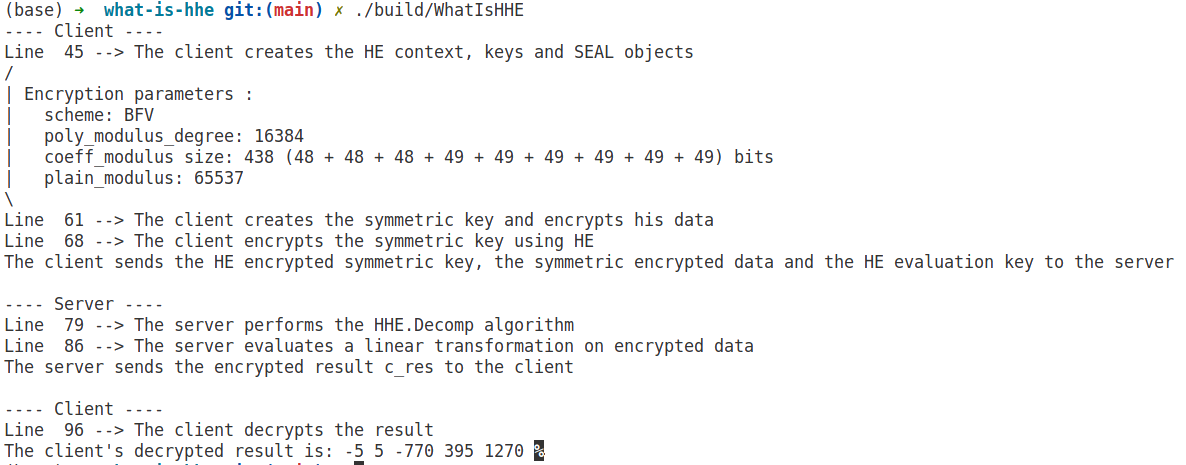
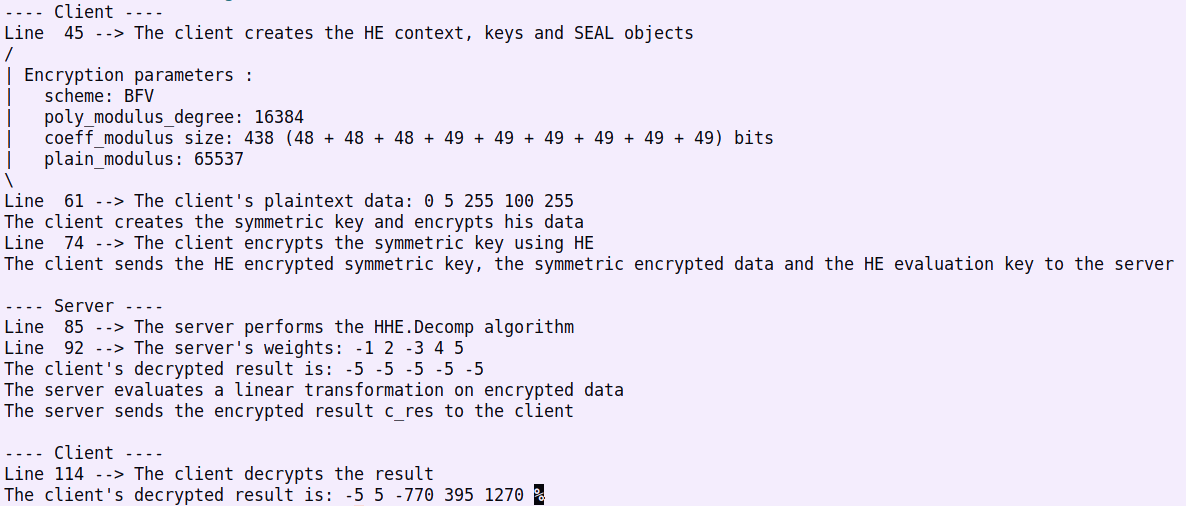
print some more info to cout

Changed region(s): [[0.0, 0.0, 0.9983, 0.843], [0.0, 0.8731, 0.468, 1.0]]

diff --git a/what-is-hhe/src/main.cpp b/what-is-hhe/src/main.cpp
@@ -59,6 +59,12 @@ int main()
     keygen.create_galois_keys(gk_indices, client.he_gk);
 
     utils::print_line(__LINE__);
+    std::cout << "The client's plaintext data: ";
+    for (auto i : client.m)
+    {
+        std::cout << i << " ";
+    }
+    std::cout << "\n";
     std::cout << "The client creates the symmetric key and encrypts his data" << std::endl;
     client.k = pastahelper::get_symmetric_key();
     pasta::PASTA SymmetricEncryptor(client.k, configs::plain_mod);
@@ -84,6 +90,18 @@ int main()
     server.c = HHE.decomposition(client.c_s, client.c_k, configs::USE_BATCH);
 
     utils::print_line(__LINE__);
+    std::cout << "The server's weights: ";
+    for (auto i : server.w)
+    {
+        std::cout << i << " ";
+    }
+    std::cout << "\n";
+    std::cout << "The client's decrypted result is: ";
+    for (auto i : server.b)
+    {
+        std::cout << i << " ";
+    }
+    std::cout << "\n";
     std::cout << "The server evaluates a linear transformation on encrypted data" << std::endl;
     seal::Plaintext plain_w, plain_b;
     he_benc.encode(server.w, plain_w);
